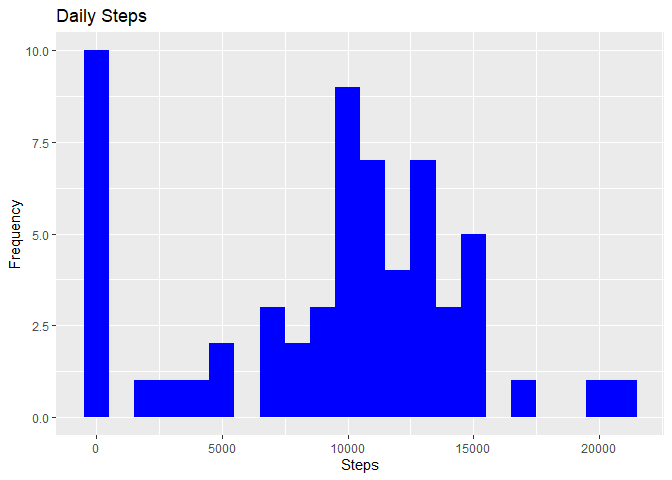
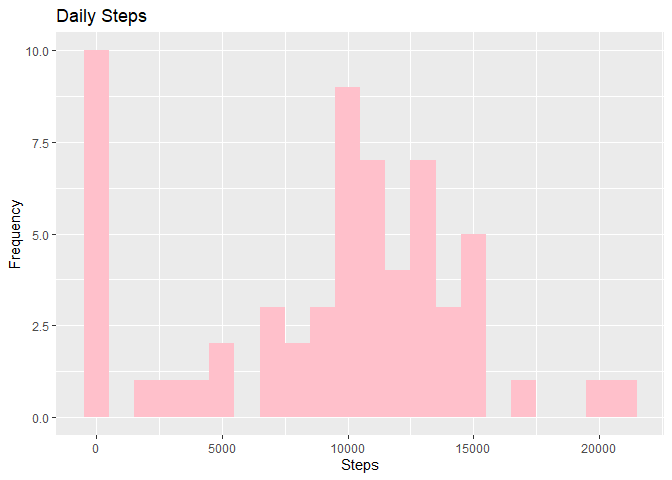
second commit

Changed region(s): [[0.125, 0.0938, 0.8125, 0.875], [0.875, 0.7812, 0.9688, 0.875]]

diff --git a/PA1_template.html b/PA1_template.html
@@ -427,8 +427,8 @@ head(TotalSteps, 10)</code></pre>
 <li>Make a time series plot (i.e. 𝚝𝚢𝚙𝚎 = “𝚕”) of the 5-minute interval (x-axis) and the average number of steps taken, averaged across all days (y-axis)</li>
 </ol>
 <pre class="r"><code>IntervalDT &lt;- ActivityDT[, c(lapply(.SD, mean, na.rm = TRUE)), .SDcols = c(&quot;steps&quot;), by = .(interval)] 
-ggplot(IntervalDT, aes(x = interval , y = steps)) + geom_line(color=&quot;blue&quot;, size=1) + labs(title = &quot;Avg. Daily Steps&quot;, x = &quot;Interval&quot;, y = &quot;Avg. Steps per day&quot;)</code></pre>
[1 lines of base64/hex data omitted]
+ggplot(IntervalDT, aes(x = interval , y = steps)) + geom_line(color=&quot;green&quot;, size=1) + labs(title = &quot;Avg. Daily Steps&quot;, x = &quot;Interval&quot;, y = &quot;Avg. Steps per day&quot;)</code></pre>
[1 lines of base64/hex data omitted]
 <ol start="2" style="list-style-type: decimal">
 <li>Which 5-minute interval, on average across all the days in the dataset, contains the maximum number of steps?</li>
 </ol>
@@ -464,8 +464,8 @@ TotalSteps &lt;- ActivityDT[, c(lapply(.SD, sum)), .SDcols = c(&quot;steps&quot;
 TotalSteps[, .(Mean_Steps = mean(steps), MedianSteps = median(steps))]</code></pre>
 <pre><code>##    Mean_Steps MedianSteps
 ## 1:    9354.23       10395</code></pre>
-<pre class="r"><code>ggplot(TotalSteps, aes(x = steps)) + geom_histogram(fill = &quot;blue&quot;, binwidth = 1000) + labs(title = &quot;Daily Steps&quot;, x = &quot;Steps&quot;, y = &quot;Frequency&quot;)</code></pre>
[1 lines of base64/hex data omitted]
+<pre class="r"><code>ggplot(TotalSteps, aes(x = steps)) + geom_histogram(fill = &quot;pink&quot;, binwidth = 1000) + labs(title = &quot;Daily Steps&quot;, x = &quot;Steps&quot;, y = &quot;Frequency&quot;)</code></pre>
[1 lines of base64/hex data omitted]
 <table>
 <thead>
 <tr class="header">

diff --git a/PA1_template.md b/PA1_template.md
@@ -87,7 +87,7 @@ TotalSteps[, .(Mean_Steps = mean(steps, na.rm = TRUE), MedianSteps = median(step
 
 ```r
 IntervalDT <- ActivityDT[, c(lapply(.SD, mean, na.rm = TRUE)), .SDcols = c("steps"), by = .(interval)] 
-ggplot(IntervalDT, aes(x = interval , y = steps)) + geom_line(color="blue", size=1) + labs(title = "Avg. Daily Steps", x = "Interval", y = "Avg. Steps per day")
+ggplot(IntervalDT, aes(x = interval , y = steps)) + geom_line(color="green", size=1) + labs(title = "Avg. Daily Steps", x = "Interval", y = "Avg. Steps per day")
 ```
 
 ![](PA1_template_files/figure-html/unnamed-chunk-6-1.png)<!-- -->
@@ -160,7 +160,7 @@ TotalSteps[, .(Mean_Steps = mean(steps), MedianSteps = median(steps))]
 ```
 
 ```r
-ggplot(TotalSteps, aes(x = steps)) + geom_histogram(fill = "blue", binwidth = 1000) + labs(title = "Daily Steps", x = "Steps", y = "Frequency")
+ggplot(TotalSteps, aes(x = steps)) + geom_histogram(fill = "pink", binwidth = 1000) + labs(title = "Daily Steps", x = "Steps", y = "Frequency")
 ```
 
 ![](PA1_template_files/figure-html/unnamed-chunk-11-1.png)<!-- -->
